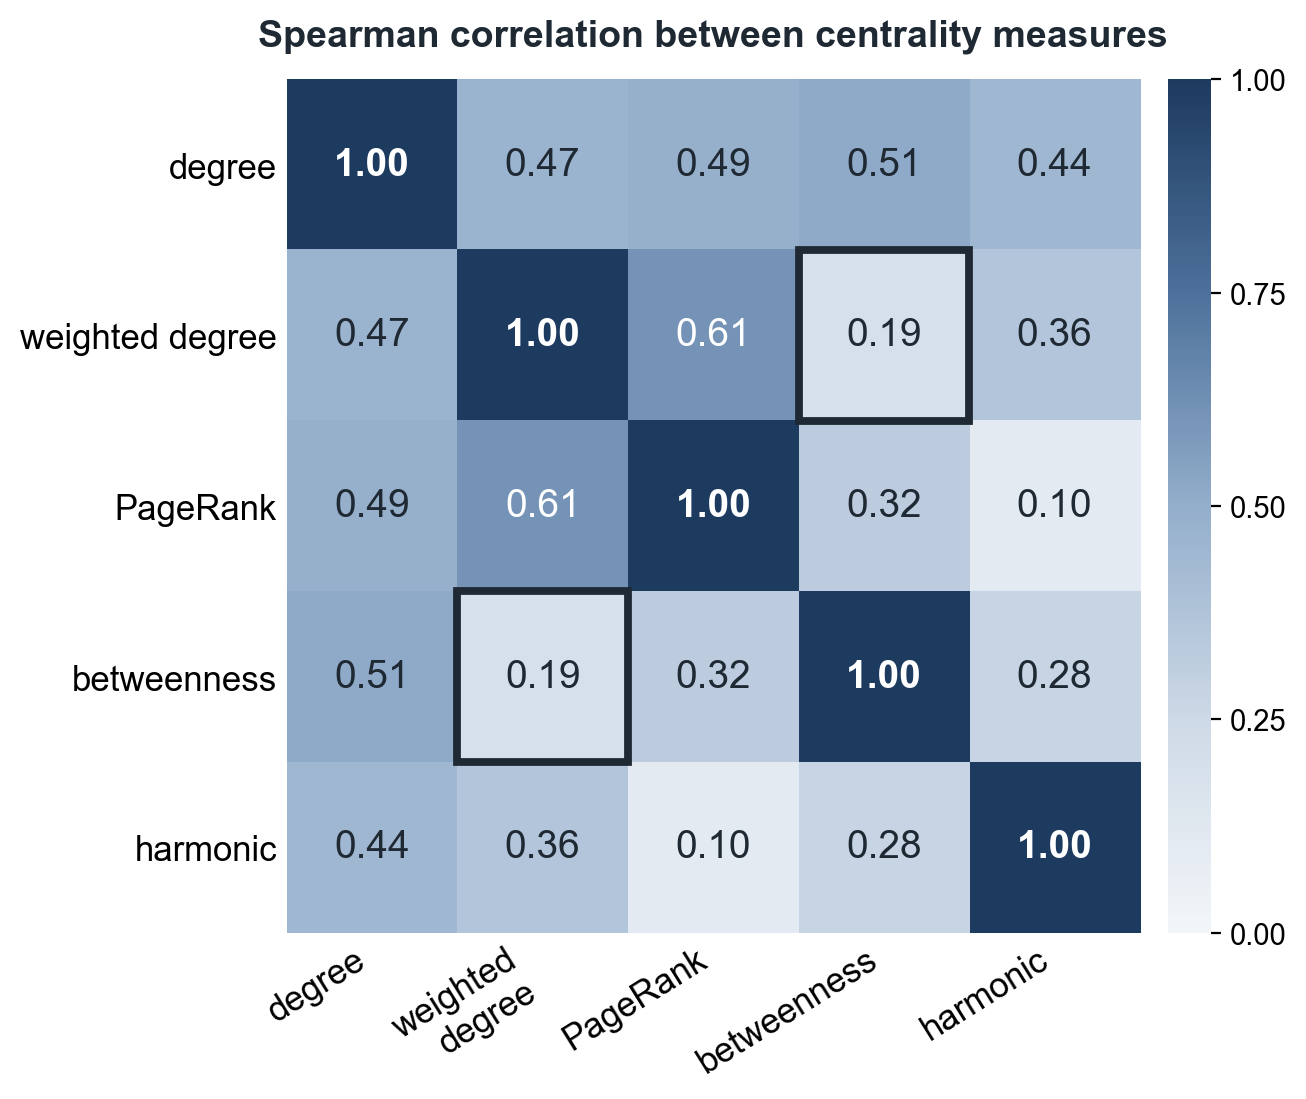
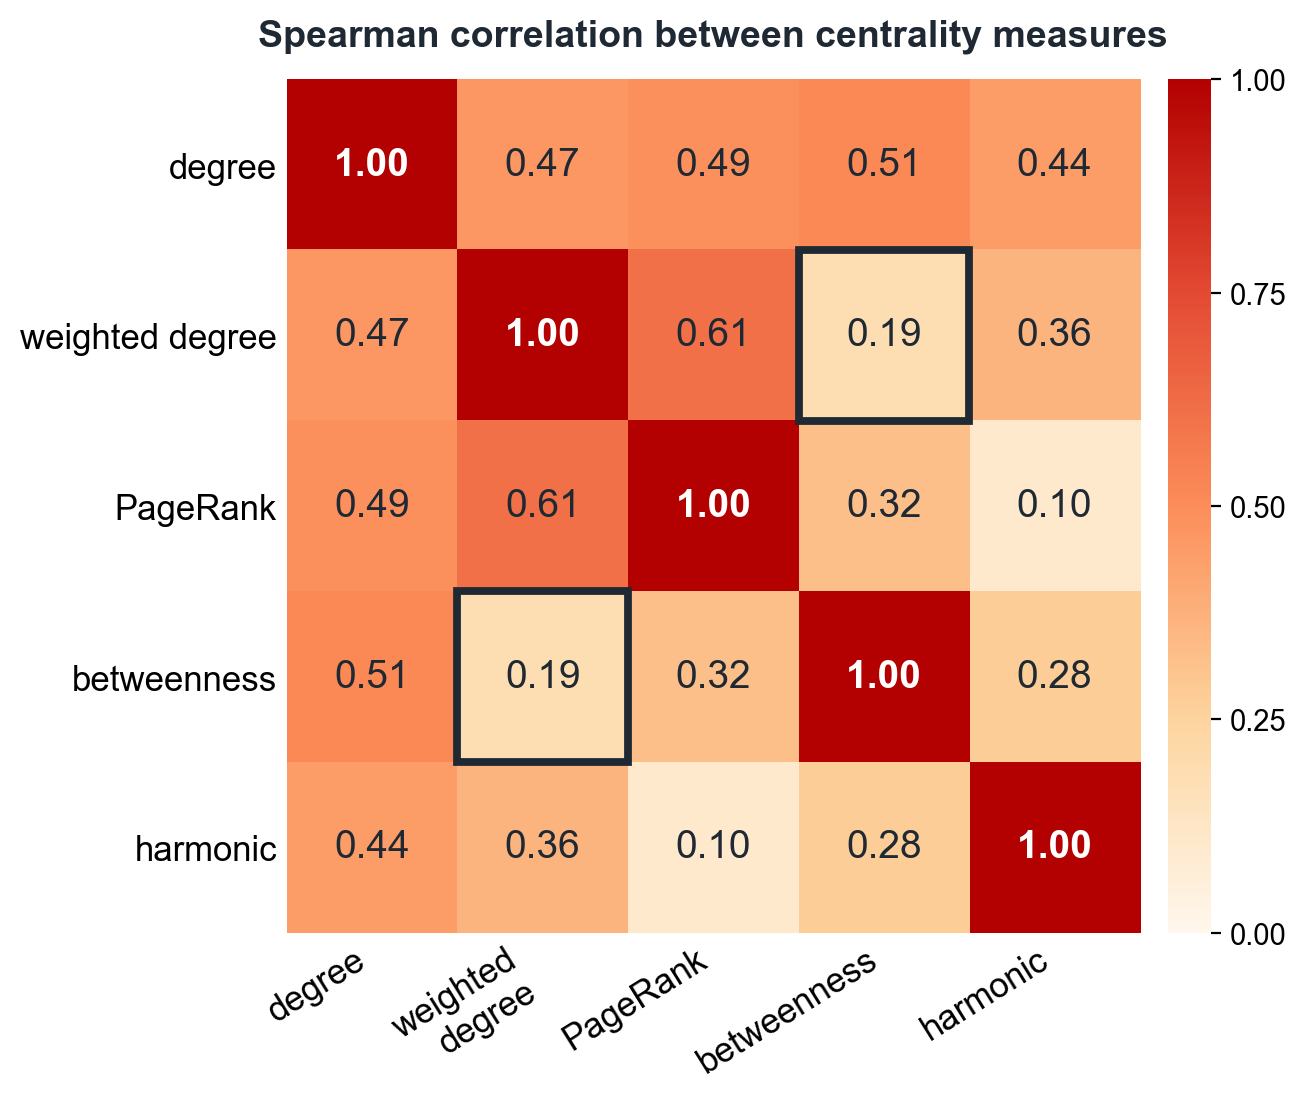
Recolour the four remaining figures to match the resilience palette
Apply the Okabe-Ito colour-blind-safe palette across all report figures for a
consistent colour language: per-model hues (fig 1), a warm sequential heatmap
(fig 2), Okabe blue points (fig 3), and blue/orange bars (fig 4).

diff --git a/reports/make_isolation_figure.py b/reports/make_isolation_figure.py
@@ -18,8 +18,8 @@ OUT = REPO / "reports" / "figures" / "critical_isolation.png"
 OUT.parent.mkdir(parents=True, exist_ok=True)
 
 d = pd.read_csv(CSV, encoding="utf-8-sig")
-LIGHT, DARK = "#9aa8ba", "#26313d"
-d["color"] = d["verdict"].map({"substitutable": LIGHT, "isolated": DARK})
+SUBST, ISOL = "#0072B2", "#D55E00"
+d["color"] = d["verdict"].map({"substitutable": SUBST, "isolated": ISOL})
 
 plt.rcParams.update({"font.family": ["Arial", "DejaVu Sans"]})
 fig, ax = plt.subplots(figsize=(8.4, 4.6), dpi=200)
@@ -49,8 +49,8 @@ for s in ("left", "bottom"):
     ax.spines[s].set_color("#9aa4af")
 
 legend = [
-    Patch(facecolor=LIGHT, edgecolor="#5b6672", label="Substitutable - alternative within 300 m (98.2%)"),
-    Patch(facecolor=DARK, edgecolor="#5b6672", label="Isolated - genuine single point of failure (1.8%)"),
+    Patch(facecolor=SUBST, edgecolor="#5b6672", label="Substitutable - alternative within 300 m (98.2%)"),
+    Patch(facecolor=ISOL, edgecolor="#5b6672", label="Isolated - genuine single point of failure (1.8%)"),
 ]
 ax.legend(handles=legend, loc="upper right", fontsize=11, frameon=True, framealpha=0.95)
 

diff --git a/reports/make_corr_figure.py b/reports/make_corr_figure.py
@@ -25,9 +25,9 @@ M = d.values
 labels = ["degree", "weighted\ndegree", "PageRank", "betweenness", "harmonic"]
 n = len(labels)
 
-# sequential ramp: light -> report navy (grayscale-safe)
+# sequential ramp: pale cream -> deep red (colourful, low values recede, high pop)
 cmap = LinearSegmentedColormap.from_list(
-    "navyseq", ["#f3f6f9", "#cdd9e6", "#93aecb", "#4d719b", "#1d3a5f"])
+    "warmseq", ["#fff7ec", "#fdd49e", "#fc8d59", "#e34a33", "#b30000"])
 
 plt.rcParams.update({"font.family": ["Arial", "DejaVu Sans"]})
 fig, ax = plt.subplots(figsize=(6.4, 5.6), dpi=200)
@@ -39,7 +39,7 @@ for i in range(n):
         v = M[i, j]
         ax.text(j, i, f"{v:.2f}", ha="center", va="center",
                 fontsize=14, fontweight=("bold" if i == j else "normal"),
-                color=("white" if v >= 0.58 else "#1f2933"))
+                color=("white" if v >= 0.62 else "#1f2933"))
 
 # highlight the headline dissociation cell(s): weighted degree x betweenness
 key = [(1, 3), (3, 1)]

diff --git a/reports/make_model_figure.py b/reports/make_model_figure.py
@@ -27,13 +27,18 @@ LABEL = {
     "barabasi_albert_matched": "BA",
     "watts_strogatz_matched": "WS",
 }
-# highlight: real = dark ink, configuration control = mid grey, rest = light grey
-DARK, MID, LIGHT = "#26313d", "#7f8a97", "#d3d8de"
-COLOR = {"real_transit": DARK, "configuration_degree_sequence": MID}
+# Okabe-Ito colour-blind-safe palette: one fixed hue per model (real = blue anchor)
+PALETTE = {
+    "real_transit": "#0072B2",
+    "erdos_renyi_gnm": "#E69F00",
+    "configuration_degree_sequence": "#009E73",
+    "barabasi_albert_matched": "#CC79A7",
+    "watts_strogatz_matched": "#D55E00",
+}
 
 d = d[d["model"].isin(LABEL)].copy()
 d["label"] = d["model"].map(LABEL)
-d["color"] = d["model"].map(lambda m: COLOR.get(m, LIGHT))
+d["color"] = d["model"].map(PALETTE)
 
 PANELS = [
     ("average_clustering", "Average clustering"),

diff --git a/reports/make_seedstab_figure.py b/reports/make_seedstab_figure.py
@@ -39,7 +39,7 @@ fig, ax = plt.subplots(figsize=(6.2, 5.8), dpi=200)
 
 ax.plot([0, hi], [0, hi], ls="--", lw=1.6, color="#1f2933",
         zorder=1, label="perfect agreement")
-ax.scatter(x, y, s=7, color="#3f6394", alpha=0.28, edgecolors="none", zorder=2)
+ax.scatter(x, y, s=7, color="#0072B2", alpha=0.30, edgecolors="none", zorder=2)
 
 ax.set_xlim(0, hi)
 ax.set_ylim(0, hi)
